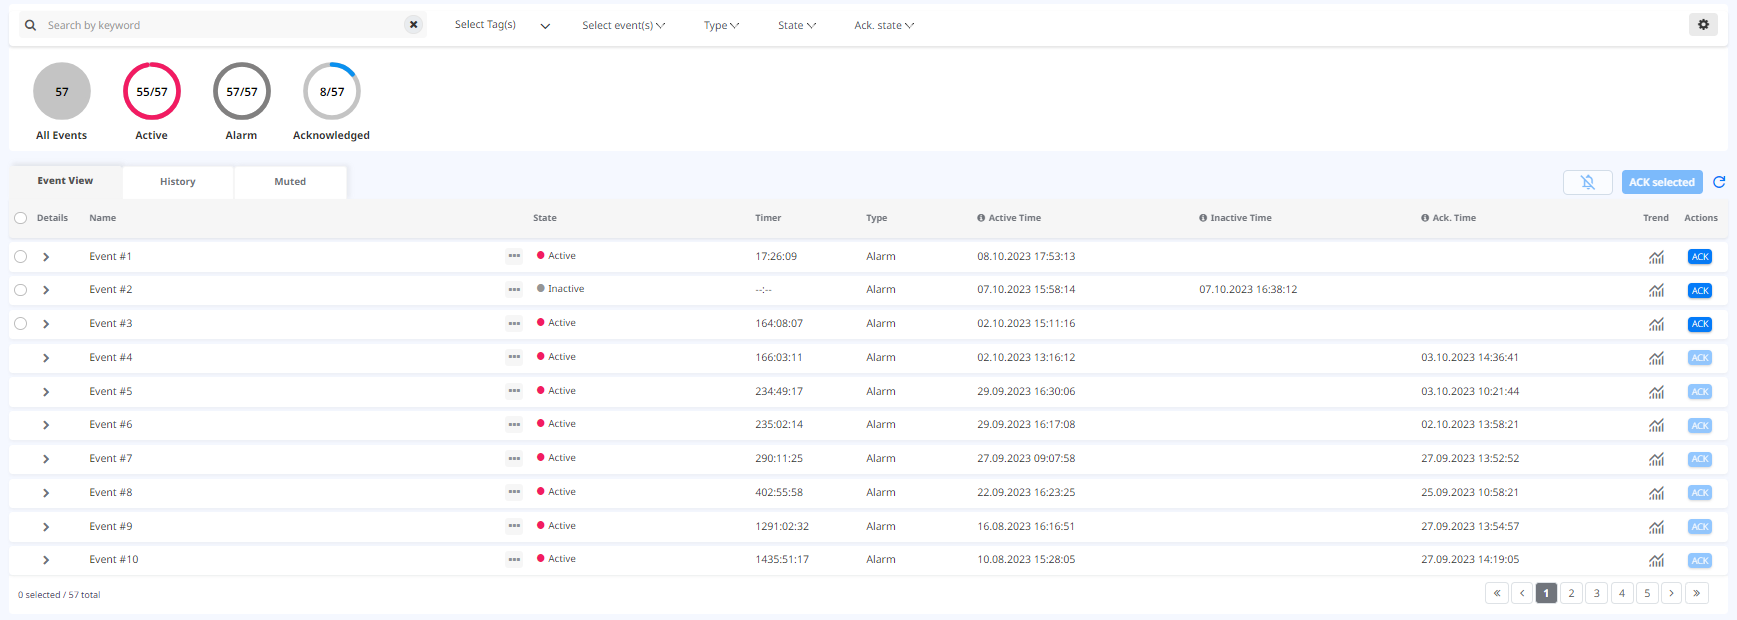
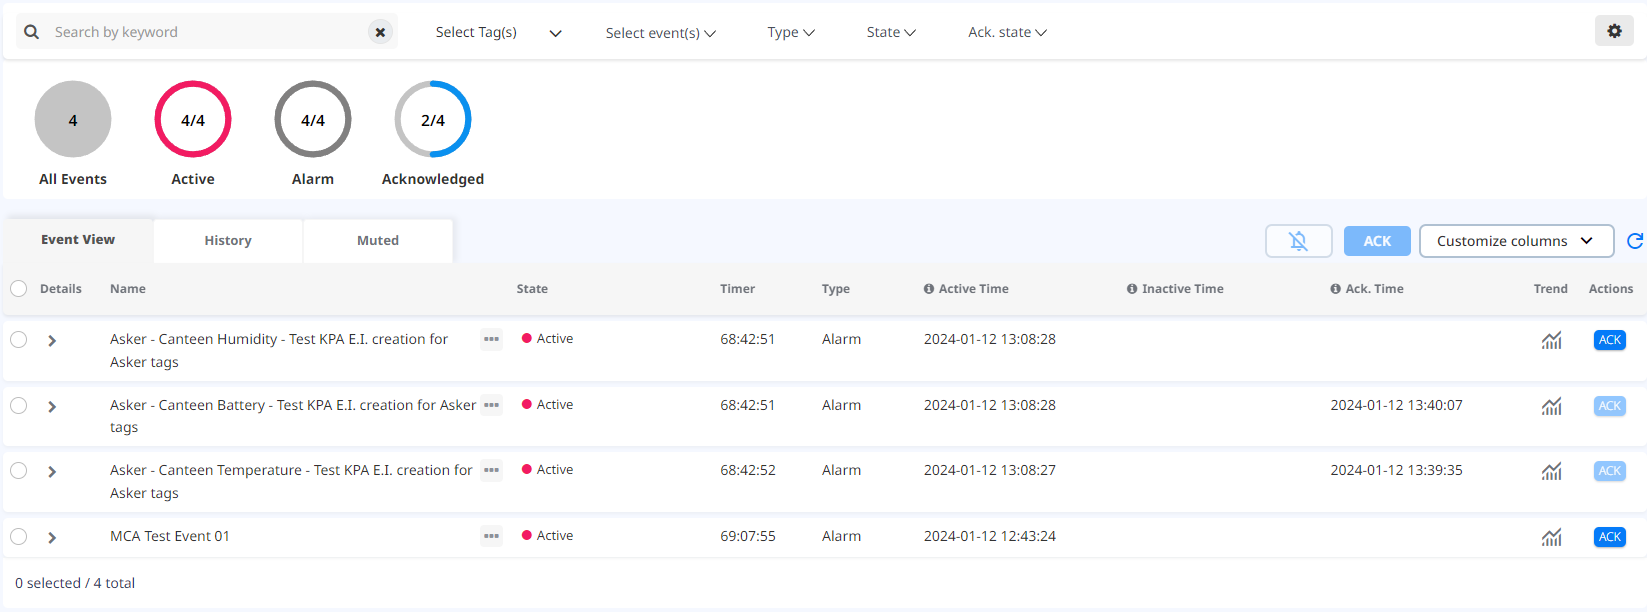
updated events and tags view

diff --git a/docs/configuration/endpoints/index.html b/docs/configuration/endpoints/index.html
@@ -327,10 +327,15 @@ By clicking on the <img src="/delete-tag.png" alt="online status"> button you ca
     <img class="center_image myImg" onClick="reply_click(this)"  id="add_tag" src="/addTag-form.png" alt="Add tag form">
     <figcaption>Fig 9. Add tag form<figcaption>
 </figure>
+<p>You should select which columns you want to see in the table using the button <img src="/customizeColumns.png" alt="customize column"> The “Details”, “Name” and “Actions” are default columns and cannot be hidden.</p>
+<figure class="image_container">
+    <img class="center_image myImg" onClick="reply_click(this)"  id="tagsColumnFilter" src="/tagsColumnFilter.png" alt="Column filter">
+    <figcaption>Fig 10. Column filter<figcaption>
+</figure>
 <p>The User (Super Admin) can add a multiple Tags by clicking on the <img src="/import-tags-btn.png" alt="online status"> button, than on Import Tags <img src="/import-export-tags-btn.png" alt="online status"> upon which an “Tags Importing” form appears which have a template and downloading it user should add a multiple tags using excel file. In the excel file for string and boolean value type are not required ‘Deadband’ and ‘Precision’. The ‘Engineering Unit’ and ‘Engineering Icon’ are not required for all value types and also ‘StateTrue’ and ‘StateFalse’ are required only for boolean value type. While importing tags are in progress user should see a progress bar and when importing is done user should be notified with Success Message.</p>
 <figure class="image_container">
     <img class="center_image myImg" onClick="reply_click(this)"  id="import_tags" src="/importing-tags-modal.png" alt="Import multiple tags form">
-    <figcaption>Fig 10. Tag Importing form<figcaption>
+    <figcaption>Fig 11. Tag Importing form<figcaption>
 </figure>
 <script>
 // Get the modal

diff --git a/docs/trend/index.html b/docs/trend/index.html
@@ -216,6 +216,27 @@ if (!doNotTrack) {
           <a class="nav-link p-0" href="/support/"><h6>Support</h6></a>
         
         <ul class="list-unstyled ml-2">
+    <li data-nav-id="/support/documentation/" class="nav-item my-1
+        ">
+        
+        
+          <a class="nav-link p-0" href="/support/documentation/"><h6>Documentation</h6></a>
+        
+    </li>
+    <li data-nav-id="/support/release-notes/" class="nav-item my-1
+        ">
+        
+        
+          <a class="nav-link p-0" href="/support/release-notes/"><h6>Release Notes</h6></a>
+        
+    </li>
+    <li data-nav-id="/support/submit-ticket/" class="nav-item my-1
+        ">
+        
+        
+          <a class="nav-link p-0" href="/support/submit-ticket/"><h6>Submit Ticket</h6></a>
+        
+    </li>
         </ul>
     </li>
     <li data-nav-id="/glossary/" class="nav-item my-1

diff --git a/docs/events/index.html b/docs/events/index.html
@@ -377,6 +377,12 @@ Event Definition can be edited or deleted. In this case its instances are Archiv
 </tr>
 </tbody>
 </table>
+<p>You should select which columns you want to see in the table using the button <img src="/customizeColumns.png"> The “Details”, “Name” and “Actions” are default columns and cannot be hidden.</p>
+<figure class="image_container">
+    <img class="center_image myImg" onClick="reply_click(this)"  id="eventColumnFilter" src="/eventsColumnFilter.png" alt="Column filter">
+    <figcaption>Fig 2. Column filter<figcaption>
+</figure>
+<p>Note: This option is possible in ”Event View”, “History” and “Muted” tabs in the “Events view”.</p>
 <h2 id="filters">Filters</h2>
 <p>The following filters are available for both Events and History tabs:</p>
 <ul>

diff --git a/content/configuration/endpoints/_index.md b/content/configuration/endpoints/_index.md
@@ -81,10 +81,19 @@ The User can add a new Tag by clicking on the <img src="/addTag-button.png" alt=
     <figcaption>Fig 9. Add tag form<figcaption>
 </figure>
 
+
+You should select which columns you want to see in the table using the button <img src="/customizeColumns.png" alt="customize column"> The “Details”, “Name” and “Actions” are default columns and cannot be hidden.
+
+<figure class="image_container">
+    <img class="center_image myImg" onClick="reply_click(this)"  id="tagsColumnFilter" src="/tagsColumnFilter.png" alt="Column filter">
+    <figcaption>Fig 10. Column filter<figcaption>
+</figure>
+
+
 <p>The User (Super Admin) can add a multiple Tags by clicking on the <img src="/import-tags-btn.png" alt="online status"> button, than on Import Tags <img src="/import-export-tags-btn.png" alt="online status"> upon which an “Tags Importing” form appears which have a template and downloading it user should add a multiple tags using excel file. In the excel file for string and boolean value type are not required ‘Deadband’ and ‘Precision’. The ‘Engineering Unit’ and ‘Engineering Icon’ are not required for all value types and also ‘StateTrue’ and ‘StateFalse’ are required only for boolean value type. While importing tags are in progress user should see a progress bar and when importing is done user should be notified with Success Message.</p>
 <figure class="image_container">
     <img class="center_image myImg" onClick="reply_click(this)"  id="import_tags" src="/importing-tags-modal.png" alt="Import multiple tags form">
-    <figcaption>Fig 10. Tag Importing form<figcaption>
+    <figcaption>Fig 11. Tag Importing form<figcaption>
 </figure>
 
 <script>

diff --git a/content/events/_index.md b/content/events/_index.md
@@ -69,6 +69,17 @@ Columns common for all Event Types are:
 | Actions | Button for Acknowledging Alarm | 
 
 
+
+You should select which columns you want to see in the table using the button <img src="/customizeColumns.png"> The “Details”, “Name” and “Actions” are default columns and cannot be hidden.
+
+<figure class="image_container">
+    <img class="center_image myImg" onClick="reply_click(this)"  id="eventColumnFilter" src="/eventsColumnFilter.png" alt="Column filter">
+    <figcaption>Fig 2. Column filter<figcaption>
+</figure>
+
+Note: This option is possible in ”Event View”, “History” and “Muted” tabs in the “Events view”.
+
+
 ## Filters
 The following filters are available for both Events and History tabs:
 - "TAGS FILTER" - the tags tree view filter is populated with the Tags and their [Assets](/glossary#asset) for which the user has asset scopes. It filters Event Instances for selected Tags.
